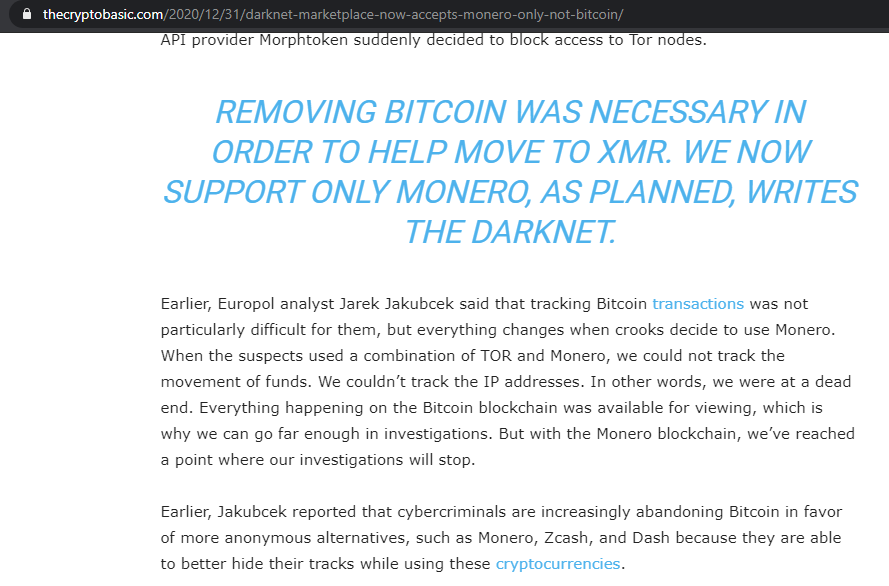
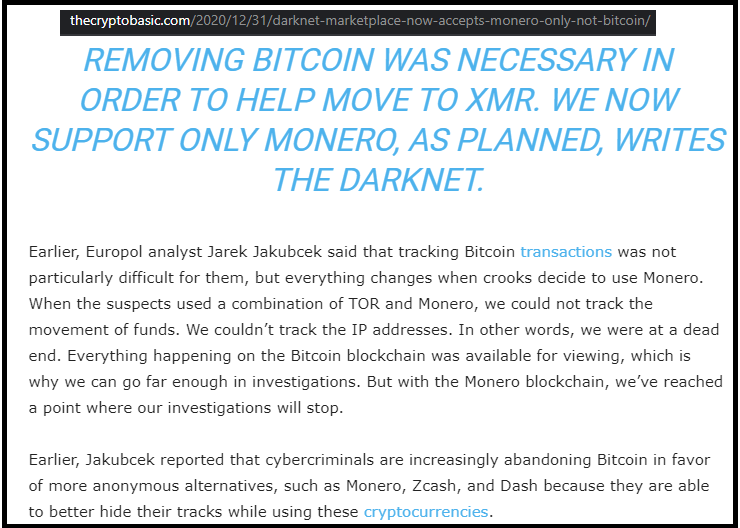
typos

Changed region(s): [[0.0, 0.0, 1.0, 1.0]]

diff --git a/_posts/2021-02-05-zside-meltcast.md b/_posts/2021-02-05-zside-meltcast.md
@@ -25,7 +25,7 @@ Above: A [story](https://thecryptobasic.com/2020/12/31/darknet-marketplace-now-a
 3. Private fusion of small UTXOs into larger ones (also Melt/Cast).
 
 
-![image](/images/zside-screenshot.png)
+![image](/images/zside-screenshot.jpg)
 
 Above: screenshot of the [next version](https://www.drivechain.info/releases/index.html) of zSide (work in progress!).
 
@@ -168,7 +168,7 @@ Melt/Cast is a User-Interface scheme designed to be used with zSide (zcash drive
 
 The UI is simple, in order to (as mentioned above) prevent accidental misuse, and encourage adoption.
 
-![image](/images/zside-ux.png)
+![image](/images/zside-ux.jpg)
 
 Try it [here](https://www.drivechain.info/releases/index.html)!
 
@@ -247,7 +247,7 @@ For "common timings", we adopt the convention that certain "bills" are always de
 
 ![image](/images/common-days-ex.png)
 
-See these excel sheets ([here](/images/bills.xlsx) and [here](/images/melt-cast-days-example.xlsx) for the images above. The second sheet has two examples.
+See these excel sheets ([here](/images/bills.xlsx) and [here](/images/melt-cast-days-example.xlsx)) for the images above. The second sheet has two examples.
 
 #### iv. "No Unshielded Merges"
 
